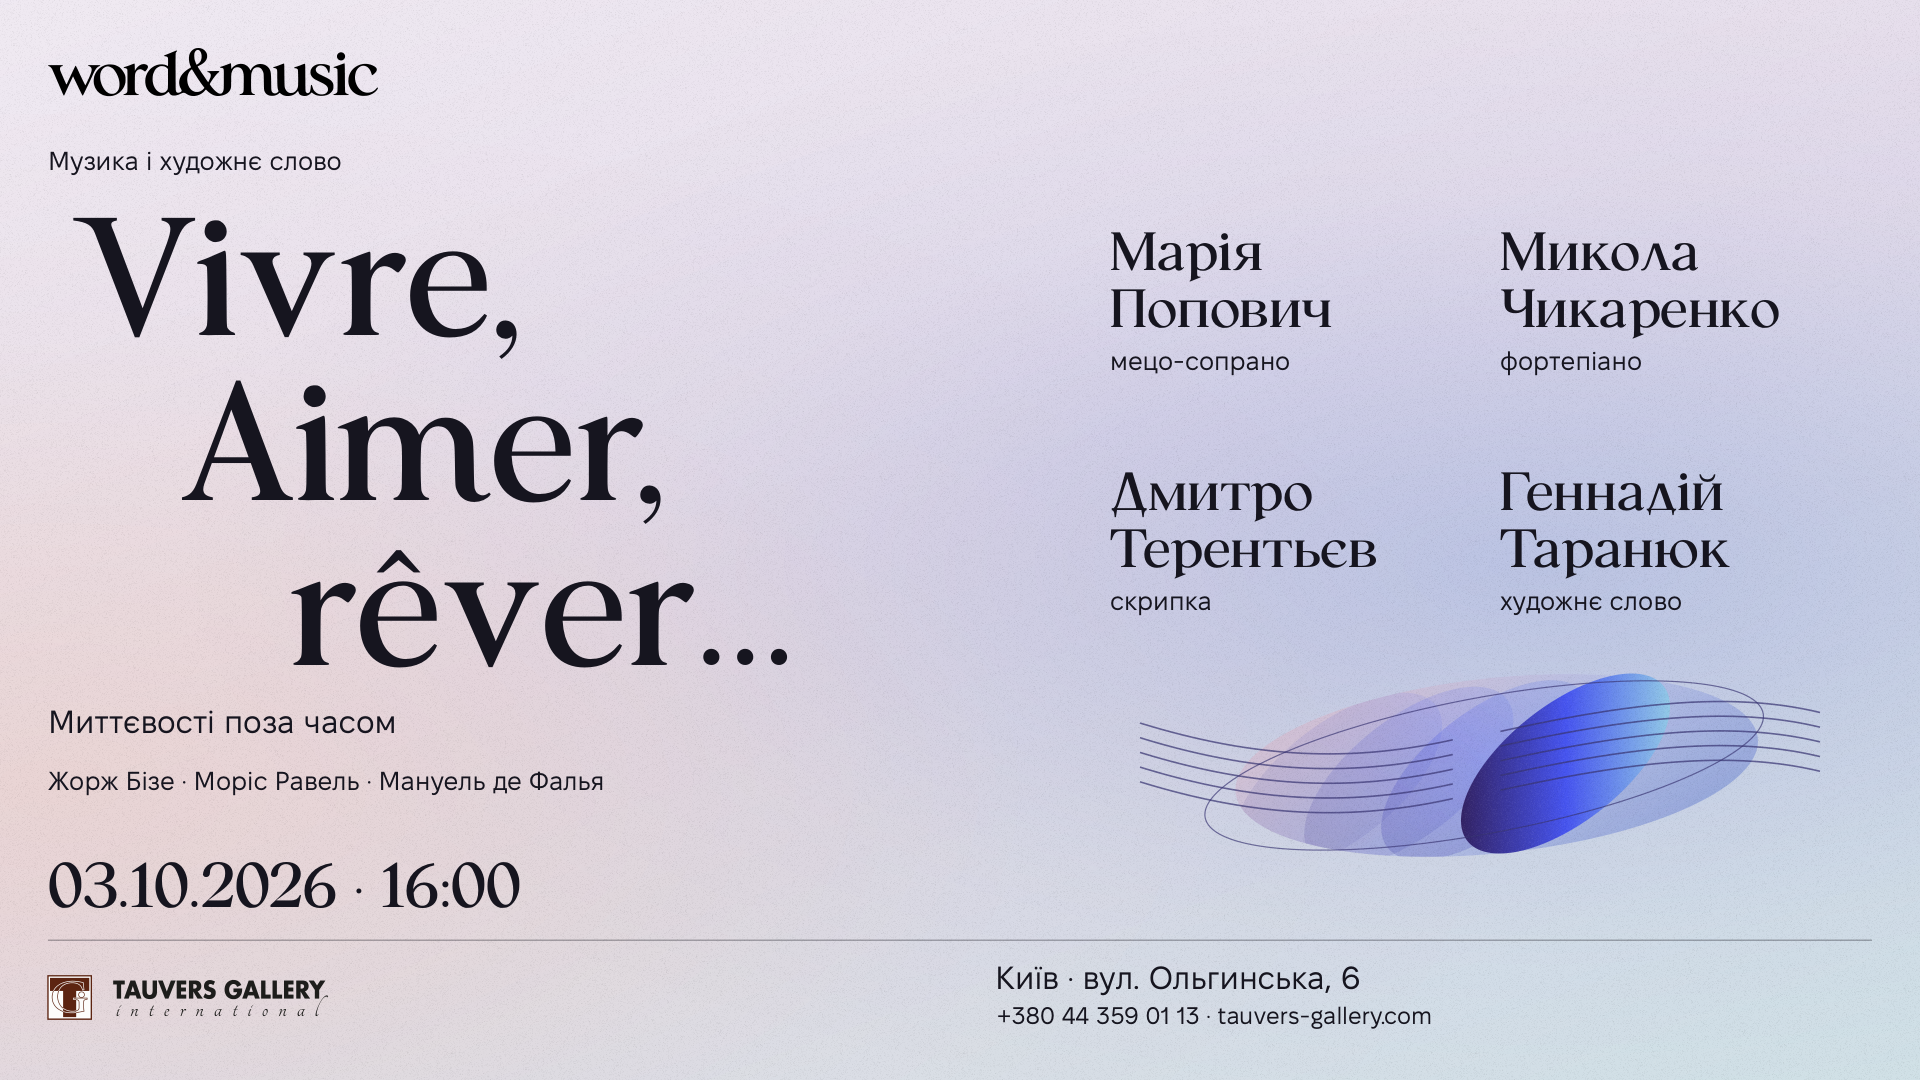
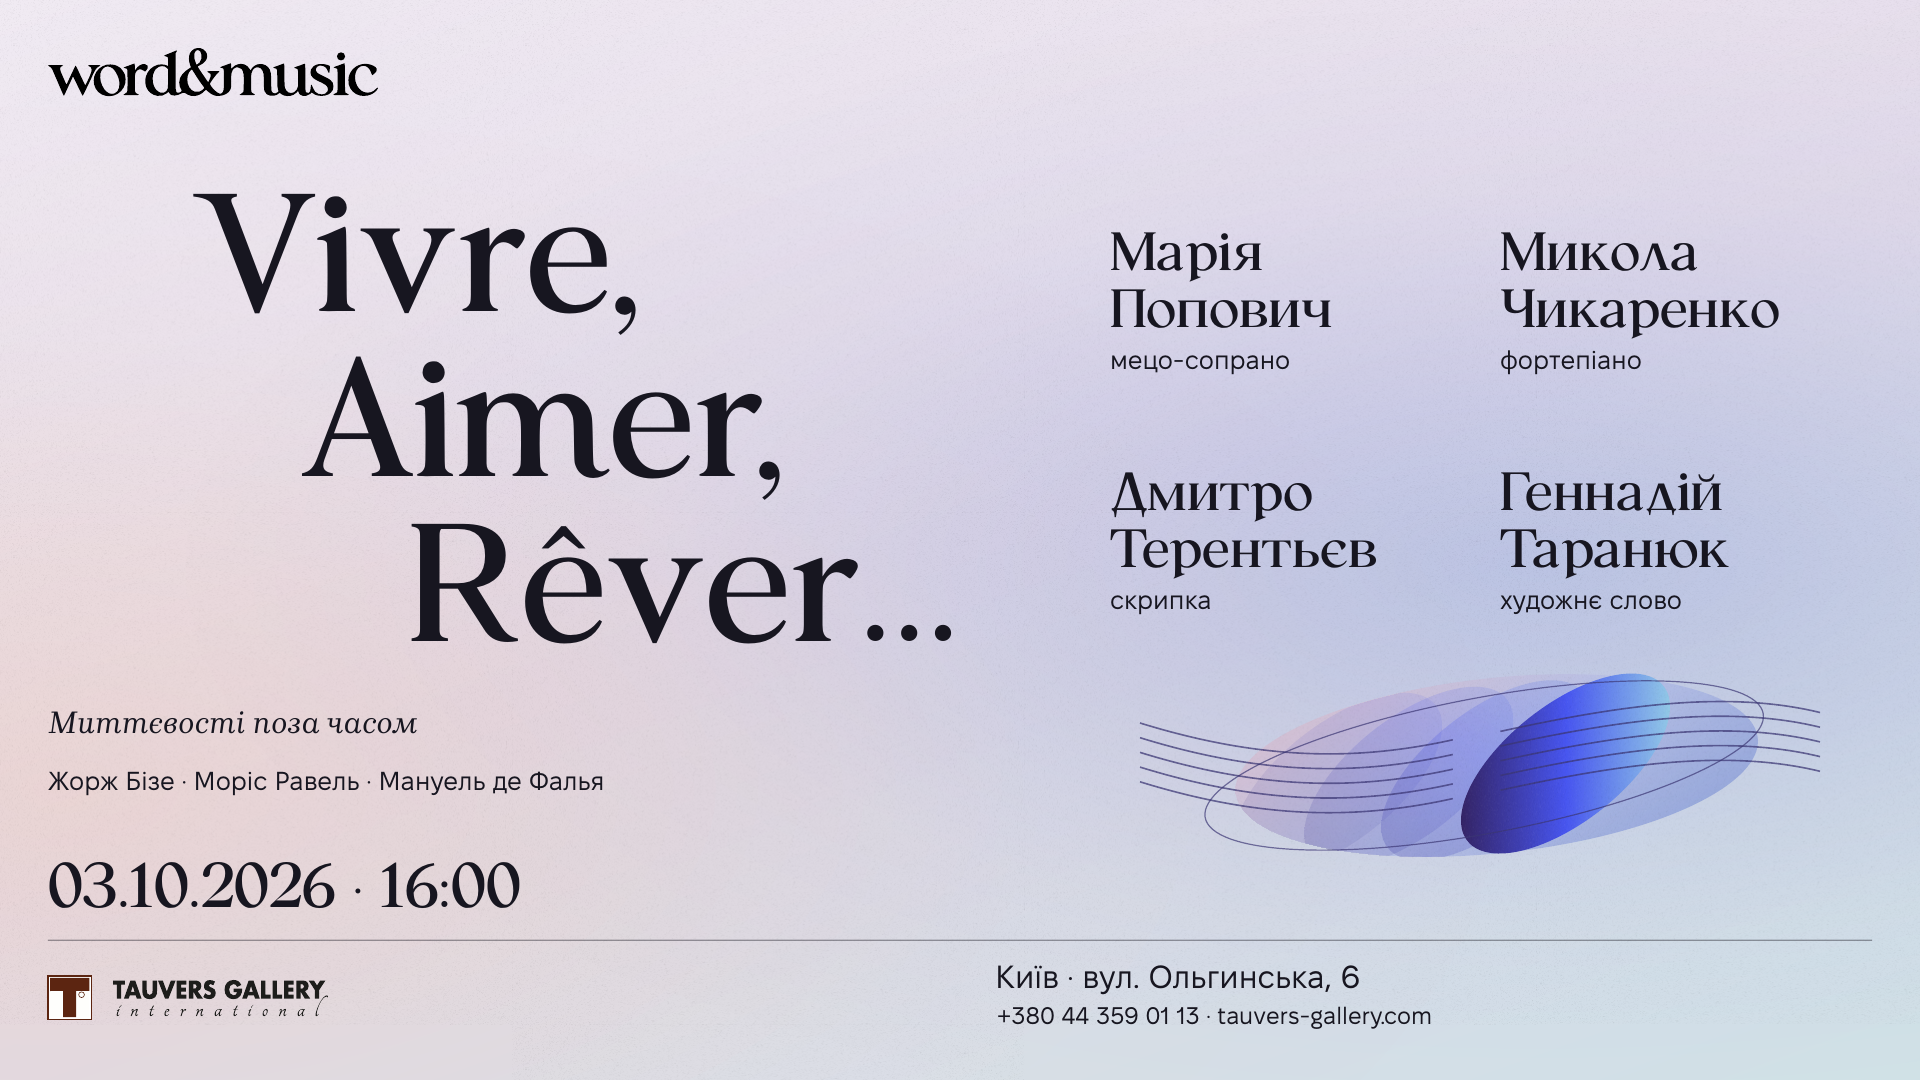
Update concert artwork from final R5 layouts

diff --git a/index.html b/index.html
@@ -46,10 +46,10 @@
         aria-label="Відкрити сторінку концерту «Vivre, Aimer, rêver…» на Eventmate"
       >
         <picture>
-          <source media="(max-width: 700px)" srcset="assets/concert-mobile.png">
+          <source media="(max-width: 700px)" srcset="assets/concert-mobile.png?v=r5-20260923">
           <img
             class="poster"
-            src="assets/concert-desktop.png"
+            src="assets/concert-desktop.png?v=r5-20260923"
             width="1920"
             height="1080"
             alt="Афіша концерту «Vivre, Aimer, rêver…», 3 жовтня 2026 року о 16:00"
